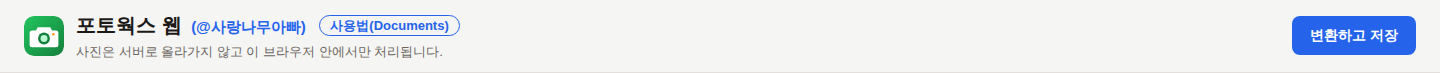
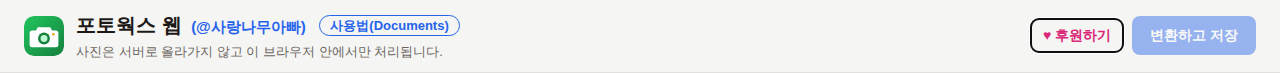
Add donation dialog: Kakao Pay QR/link and GitHub Sponsors (coming soon)
Claude-Session: https://claude.ai/code/session_015ZYYKDp48SQBS5xtcLsuZm

diff --git a/index.html b/index.html
@@ -21,6 +21,7 @@
     </div>
     <div class="top-actions">
       <span id="top-progress" class="top-progress"></span>
+      <button type="button" id="donate-open" class="ghost donate-btn" title="이 프로그램을 후원합니다">♥ 후원하기</button>
       <button type="button" id="install-app" class="ghost" hidden title="이 앱을 컴퓨터에 설치합니다">앱으로 설치</button>
       <button type="button" id="cancel-top" class="ghost" hidden>중지</button>
       <button type="button" id="run-top" class="primary" disabled>변환하고 저장</button>
@@ -111,7 +112,7 @@
             <option value="270">왼쪽으로 90°</option>
           </select>
         </label>
-        <label class="check"><input type="checkbox" id="fx-autolevel"> 자동 레벨 <span class="explain">(어둡거나 뿌연 사진의 밝기 범위를 넓힘)</span></label>
+        <label class="check"><input type="checkbox" id="fx-autolevel"> <span>자동 레벨 <span class="explain">(어둡거나 뿌연 사진의 밝기 범위를 넓힘)</span></span></label>
         <label class="row">선명하게 <span class="unit"><input type="range" id="fx-sharpen" min="0" max="100" step="5"> <output id="fx-sharpen-out"></output></span></label>
         <p class="hint">줄인 사진은 조금 흐려 보일 수 있어 20~40 정도를 권합니다. 서명과 EXIF 글자에는 적용되지 않습니다.</p>
       </fieldset>
@@ -261,6 +262,33 @@
       </div>
     </aside>
   </main>
+
+  <dialog id="donate" class="donate" aria-labelledby="donate-title">
+    <form method="dialog" class="donate-close-row"><button class="ghost small" aria-label="닫기">닫기 ✕</button></form>
+    <h2 id="donate-title">포토웍스 웹 후원하기</h2>
+    <p class="hint">이 프로그램이 도움이 되셨다면 커피 한 잔으로 응원해 주세요. 후원 방법을 고르세요.</p>
+    <div class="donate-tabs" role="tablist">
+      <button type="button" role="tab" id="tab-kakao" aria-selected="true" aria-controls="panel-kakao">카카오페이</button>
+      <button type="button" role="tab" id="tab-github" aria-selected="false" aria-controls="panel-github">GitHub Sponsors</button>
+    </div>
+
+    <section id="panel-kakao" role="tabpanel" aria-labelledby="tab-kakao">
+      <a id="kakao-pay-link" class="primary donate-pay" href="https://qr.kakaopay.com/Ej9H7kdOT9c404930" target="_blank" rel="noopener" hidden>카카오페이로 5,000원 송금하기</a>
+      <img class="donate-qr" src="img/kakaopay-qr.png" alt="카카오페이 송금 QR 코드 (5,000원)" width="508" height="484">
+      <p class="hint" id="kakao-hint">휴대폰 카메라로 위 QR 코드를 찍으면 카카오페이 송금 화면이 열립니다.</p>
+      <div class="donate-share">
+        <input type="text" id="kakao-url" readonly value="https://qr.kakaopay.com/Ej9H7kdOT9c404930" aria-label="카카오페이 송금 주소">
+        <button type="button" id="kakao-copy" class="ghost">주소 복사</button>
+        <button type="button" id="kakao-share" class="ghost" hidden>공유</button>
+      </div>
+      <p class="hint" id="kakao-desktop-hint">카카오페이 송금 링크는 휴대폰에서만 열립니다. 컴퓨터에서는 주소를 복사해 카카오톡 등으로 휴대폰에 보내 열어 주세요.</p>
+    </section>
+
+    <section id="panel-github" role="tabpanel" aria-labelledby="tab-github" hidden>
+      <p class="donate-soon">준비 중</p>
+      <p class="hint">GitHub Sponsors (for international supporters) is coming soon. 해외 후원자를 위한 GitHub Sponsors는 승인 절차가 끝나면 열립니다.</p>
+    </section>
+  </dialog>
 
   <script type="module" src="js/main.js"></script>
 </body>

diff --git a/js/main.js b/js/main.js
@@ -609,6 +609,7 @@ document.addEventListener('keydown', (e) => {
   }
   if (e.key === 'Escape' && running) { cancelRequested = true; return; }
   const t = e.target;
+  if ($('donate').open) return;
   if (e.metaKey || e.ctrlKey || e.altKey || t.closest?.('input, textarea, select, [contenteditable]')) return;
   if (e.key === 'ArrowLeft') { e.preventDefault(); stepPreview(-1); }
   else if (e.key === 'ArrowRight') { e.preventDefault(); stepPreview(1); }
@@ -636,6 +637,37 @@ window.addEventListener('appinstalled', () => { $('install-app').hidden = true; 
 if ('serviceWorker' in navigator && (location.protocol === 'https:' || ['localhost', '127.0.0.1'].includes(location.hostname))) {
   navigator.serviceWorker.register('sw.js').catch(() => { /* works without offline support */ });
 }
+
+// ---------- donation ----------
+
+// Kakao Pay's link only opens on phones; on a computer the QR code is the way in.
+const isMobile = /Android|iPhone|iPad|iPod/i.test(navigator.userAgent)
+  || (navigator.maxTouchPoints > 1 && /Macintosh/.test(navigator.userAgent)); // iPadOS
+$('kakao-pay-link').hidden = !isMobile;
+$('kakao-desktop-hint').hidden = isMobile;
+if (isMobile) $('kakao-hint').textContent = '위 버튼을 누르면 카카오페이 송금 화면이 열립니다. 다른 휴대폰으로는 QR 코드를 찍어도 됩니다.';
+$('kakao-share').hidden = !navigator.share;
+
+function selectDonateTab(which) {
+  for (const k of ['kakao', 'github']) {
+    $(`tab-${k}`).setAttribute('aria-selected', String(k === which));
+    $(`panel-${k}`).hidden = k !== which;
+  }
+}
+$('tab-kakao').addEventListener('click', () => selectDonateTab('kakao'));
+$('tab-github').addEventListener('click', () => selectDonateTab('github'));
+$('donate-open').addEventListener('click', () => { selectDonateTab('kakao'); $('donate').showModal(); });
+$('donate').addEventListener('click', (e) => { if (e.target === $('donate')) $('donate').close(); }); // backdrop
+$('kakao-copy').addEventListener('click', async () => {
+  const url = $('kakao-url').value;
+  try { await navigator.clipboard.writeText(url); }
+  catch { $('kakao-url').select(); document.execCommand('copy'); }
+  $('kakao-copy').textContent = '복사됨';
+  setTimeout(() => { $('kakao-copy').textContent = '주소 복사'; }, 1500);
+});
+$('kakao-share').addEventListener('click', () => {
+  navigator.share({ title: '포토웍스 웹 후원 (카카오페이)', url: $('kakao-url').value }).catch(() => {});
+});
 
 // ---------- presets ----------
 

diff --git a/css/style.css b/css/style.css
@@ -224,3 +224,30 @@ button.ghost.small { padding: 1px 8px; font-size: 12px; border-radius: 6px; }
 .settings-pane.compact .preset-actions { margin-top: 4px; }
 .settings-pane.compact input[type=number], .settings-pane.compact input[type=text], .settings-pane.compact select { padding: 3px 8px; }
 .settings-pane.compact .actions { margin-top: 6px; }
+
+.donate-btn { color: #db2777; border-color: #f9a8d4 !important; font-weight: 600; }
+.donate-btn:hover { background: #fdf2f8; }
+.donate {
+  width: min(440px, calc(100vw - 32px)); border: 1px solid var(--line); border-radius: 14px;
+  padding: 16px 20px 20px; background: var(--panel); color: var(--text);
+  max-height: calc(100dvh - 32px); overflow-y: auto;
+}
+.donate::backdrop { background: rgba(0,0,0,.45); }
+.donate h2 { margin: 0 0 4px; font-size: 18px; }
+.donate-close-row { display: flex; justify-content: flex-end; margin: 0; }
+.donate-tabs { display: flex; gap: 6px; margin: 12px 0; }
+.donate-tabs button {
+  flex: 1; padding: 8px; border: 1px solid var(--line); border-radius: 8px; background: var(--bg); cursor: pointer; font-weight: 600;
+}
+.donate-tabs button[aria-selected=true] { background: #fee500; border-color: #e6cf00; color: #191919; }
+.donate-tabs #tab-github[aria-selected=true] { background: var(--text); border-color: var(--text); color: var(--panel); }
+.donate section { text-align: center; }
+.donate-amount { font-size: 22px; font-weight: 800; margin: 4px 0 8px; }
+.donate-qr { display: block; margin-top: 4px; width: 100%; max-width: 300px; height: auto; margin: 0 auto; border-radius: 10px; background: #fff; }
+.donate-pay {
+  display: block; margin: 0 0 12px; padding: 12px; border-radius: 10px; text-decoration: none;
+  background: #fee500 !important; color: #191919 !important; font-weight: 800;
+}
+.donate-share { display: flex; gap: 6px; margin-top: 10px; }
+.donate-share input { flex: 1; min-width: 0; font-size: 12px; }
+.donate-soon { font-size: 20px; font-weight: 800; color: var(--muted); margin: 24px 0 8px; }

diff --git a/sw.js b/sw.js
@@ -1,13 +1,13 @@
 // Offline support: always try the network first so updates show up right
 // away, and fall back to the last copy when offline.
 
-const CACHE = 'photoworks-web-v1';
+const CACHE = 'photoworks-web-v2';
 const SHELL = [
   './', 'index.html', 'manifest.webmanifest', 'css/style.css',
   'js/main.js', 'js/settings.js', 'js/presets.js', 'js/pipeline.js', 'js/resize.js', 'js/effects.js',
   'js/dpi.js', 'js/exif.js', 'js/overlay.js', 'js/filename.js', 'js/exporter.js', 'js/pool.js',
   'js/worker.js', 'js/fonts.js',
-  'img/icon.svg', 'img/icon-32.png', 'img/icon-180.png', 'img/icon-192.png', 'img/icon-512.png',
+  'img/icon.svg', 'img/icon-32.png', 'img/icon-180.png', 'img/icon-192.png', 'img/icon-512.png', 'img/kakaopay-qr.png',
 ];
 
 self.addEventListener('install', (e) => {

diff --git a/README.md b/README.md
@@ -19,9 +19,10 @@
    - [사진 정보(EXIF) 넣기](#45-사진-정보exif-넣기) · [저장 형식](#46-저장-형식) · [파일 이름](#47-파일-이름) · [저장 위치](#48-저장-위치)
 5. [변환하고 저장하기](#5-변환하고-저장하기)
 6. [단축키](#6-단축키)
-7. [앱으로 설치하기](#7-앱으로-설치하기)
-8. [자주 묻는 질문과 한계](#8-자주-묻는-질문과-한계)
-9. [개발자용 정보](#9-개발자용-정보)
+7. [후원하기](#7-후원하기)
+8. [앱으로 설치하기](#8-앱으로-설치하기)
+9. [자주 묻는 질문과 한계](#9-자주-묻는-질문과-한계)
+10. [개발자용 정보](#10-개발자용-정보)
 
 ---
 
@@ -61,7 +62,7 @@ python3 -m http.server 8000
 
 | 위치 | 내용 |
 |---|---|
-| 상단 제목 줄 | 앱 이름, 만든 이 블로그 링크 **(@사랑나무아빠)**, 이 사용법을 새 창으로 여는 **사용법(Documents)**, 오른쪽에 **변환하고 저장** 버튼. 스크롤해도 항상 위에 고정되어 있어 언제든 바로 누를 수 있습니다. 변환 중에는 진행 장수와 **중지** 버튼이 함께 보이고, 설치할 수 있는 브라우저에서는 **앱으로 설치** 버튼도 나타납니다. |
+| 상단 제목 줄 | 앱 이름, 만든 이 블로그 링크 **(@사랑나무아빠)**, 이 사용법을 새 창으로 여는 **사용법(Documents)**, 오른쪽에 **♥ 후원하기** 와 **변환하고 저장** 버튼. 스크롤해도 항상 위에 고정되어 있어 언제든 바로 누를 수 있습니다. 변환 중에는 진행 장수와 **중지** 버튼이 함께 보이고, 설치할 수 있는 브라우저에서는 **앱으로 설치** 버튼도 나타납니다. |
 | 왼쪽 | 사진 넣는 상자(주황색), 미리보기, 넣은 사진 목록 |
 | 오른쪽 | 모든 설정. 위에서부터 프리셋 → 크기 조정 → 보정 → 서명 → 사진 정보 → 저장 형식 → 파일 이름 → 저장 위치 → 변환 버튼 |
 
@@ -270,7 +271,18 @@ python3 -m http.server 8000
 
 ---
 
-## 7. 앱으로 설치하기
+## 7. 후원하기
+
+상단 제목 줄의 **♥ 후원하기** 를 누르면 후원 창이 열립니다.
+
+![후원 창](docs/images/donate.png)
+
+- **카카오페이 (5,000원)**: 컴퓨터에서는 QR 코드가 크게 보입니다. 휴대폰 카메라로 QR 코드를 찍으면 카카오페이 송금 화면이 열립니다.
+  카카오페이 송금 링크는 휴대폰에서만 열리므로, 컴퓨터에서는 **주소 복사**(공유 기능이 있는 브라우저는 **공유**)로 주소를 휴대폰에 보내 열 수 있습니다.
+  휴대폰에서 열면 **카카오페이로 5,000원 송금하기** 버튼이 보여 바로 송금할 수 있습니다.
+- **GitHub Sponsors**: 해외 후원자용입니다. 지금은 승인 대기 중이라 "준비 중"으로 표시됩니다.
+
+## 8. 앱으로 설치하기
 
 설치하면 Dock(작업 표시줄)에 아이콘이 생기고 별도 창으로 열리며, **인터넷이 없어도** 실행됩니다.
 
@@ -281,7 +293,7 @@ python3 -m http.server 8000
 
 ---
 
-## 8. 자주 묻는 질문과 한계
+## 9. 자주 묻는 질문과 한계
 
 - **사진이 서버로 올라가나요?** 아니요. 모든 처리는 브라우저 안에서만 합니다. 인터넷 주소로 열어도 마찬가지입니다.
 - **원본 파일이 바뀌나요?** 아니요. 원본은 읽기만 하고 결과는 새 파일로 저장합니다.
@@ -294,7 +306,7 @@ python3 -m http.server 8000
 
 ---
 
-## 9. 개발자용 정보
+## 10. 개발자용 정보
 
 빌드 과정 없이 정적 파일(ES 모듈)만으로 동작합니다. 라이선스: GPL-3.0.
 
